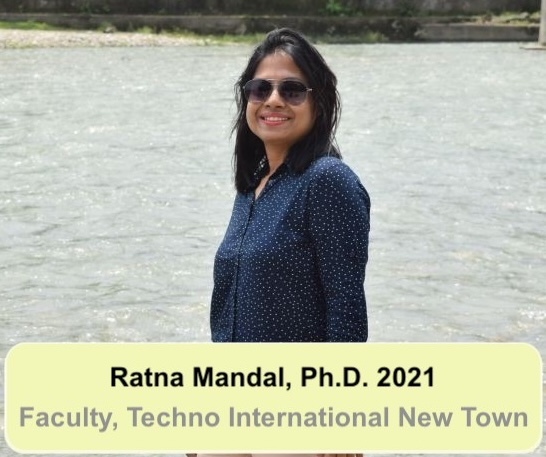
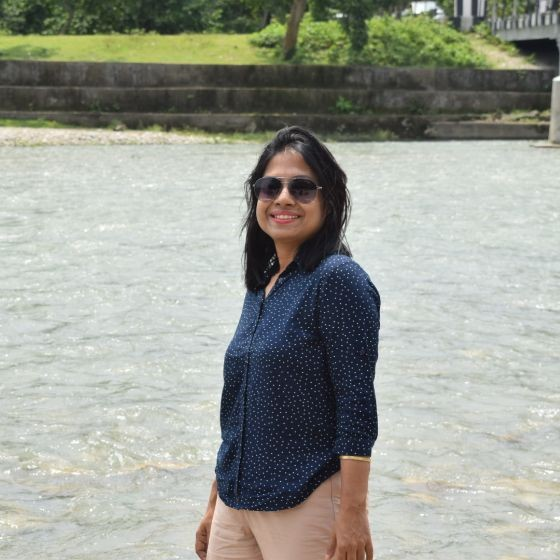
Sandip

diff --git a/index.html b/index.html
@@ -309,6 +309,7 @@
 										<h4><a href="https://satadalsengupta.github.io/" target="_blank">Satadal Sengupta</a></h4>
 										<div class="service-content">
 											<p>MS (2019)</p>
+											<p><b>Joint Supervisor:</b> Prof. Niloy Ganguly</p>
 											<p><b>Current Status:</b> Ph.D. (Princeton)</p>
 										</div>
 									</div>
@@ -326,22 +327,24 @@
 								<div class="col-md-6">
 									<div class="single-service text-center">
 										<div class="service-icon">
-											<img src="assets/images/portfolio/satadal.jpeg" alt="DriveR">
+											<img src="assets/images/portfolio/rohit.png" alt="Rohit">
 										</div>
-										<h4><a href="https://satadalsengupta.github.io/" target="_blank">Satadal Sengupta</a></h4>
+										<h4><a href="https://rv355.github.io/" target="_blank">Rohit Verma</a></h4>
 										<div class="service-content">
-											<p>MS (2019)</p>
-											<p><b>Current Status:</b> Ph.D. (Princeton)</p>
+											<p>Ph.D. (2021)</p>
+											<p><b>Joint Supervisor:</b> Prof. Bivas Mitra</p>
+											<p><b>Current Status:</b> Intel Labs</p>
 										</div>
 									</div>
 									<div class="single-service text-center">
 										<div class="service-icon">
-											<img src="assets/images/portfolio/satadal.jpeg" alt="DriveR">
+											<img src="assets/images/portfolio/ratna.jpeg" alt="Ratna">
 										</div>
-										<h4><a href="https://satadalsengupta.github.io/" target="_blank">Satadal Sengupta</a></h4>
+										<h4><a href="https://www.linkedin.com/in/dr-ratna-mandal-174163143/" target="_blank">Ratna Mandal</a></h4>
 										<div class="service-content">
-											<p>MS (2019)</p>
-											<p><b>Current Status:</b> Ph.D. (Princeton)</p>
+											<p>Ph.D. (2021)</p>
+											<p><b>Joint Supervisor:</b> Prof. Subrata Nandi (NIT Durgapur)</p>
+											<p><b>Current Status:</b> Assistant Professor (Techno International)</p>
 										</div>
 									</div>
 								</div>
